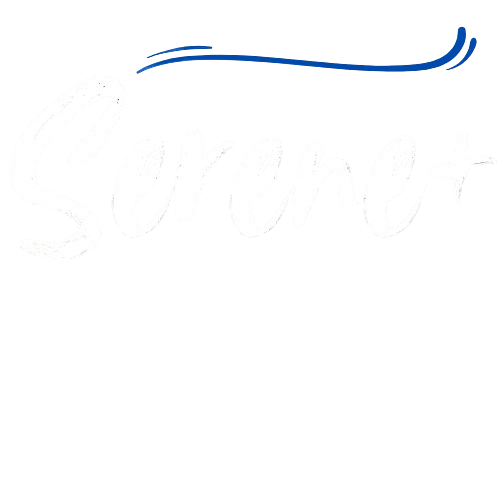
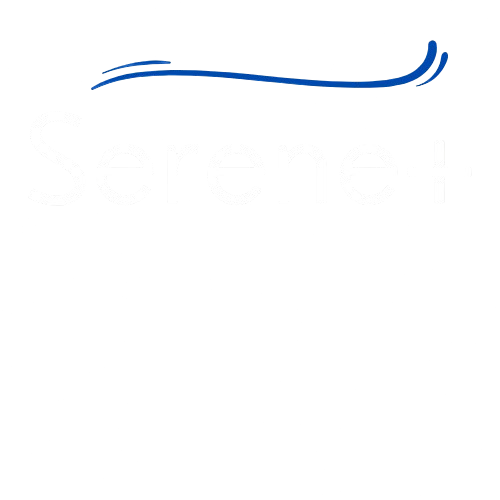
Made some changes

Changed region(s): [[0.18, 0.06, 0.96, 0.18]]

diff --git a/src/Pages/Landing.jsx b/src/Pages/Landing.jsx
@@ -10,6 +10,11 @@ import { Troubleshoot } from "@mui/icons-material";
 const Landing = () => {
 
   const navigate = useNavigate();
+  const [loading, setLoading] = useState(true);
+
+  setTimeout(() => {
+    setLoading(false);
+  }, 2000);
 
   const onClickSpotify = async () => {
     const generateRandomString = (length) => {
@@ -60,7 +65,6 @@ const Landing = () => {
     window.location.href = authUrl.toString();
   }
 
-
   // Check if the refresh token exists in localStorage
   useEffect(() => {
     const refreshToken = localStorage.getItem("refresh_token");
@@ -70,6 +74,14 @@ const Landing = () => {
 
     }
   }, [navigate]);
+
+  if (loading) {
+    return (
+      <div className="flex justify-center items-center h-[100vh] w-full text-8xl">
+        <p className="text-transparent logo">Serene+</p>
+      </div>
+    )
+  }
 
   return (
     <div className="max-w-[1920px] mx-auto h-[100vh] relative">
@@ -84,7 +96,7 @@ const Landing = () => {
         />
         <div className="flex absolute z-50 w-full py-10 flex-col h-full justify-between text-white gap-16 items-start sm:px-4 px-2">
           <div className="flex gap-4 items-center xl:text-4xl md:text-2xl justify-between w-full">
-            <Link to="/"><img src={Serene} alt="Logo" className="xl:w-[150px] xl:h-[150px] md:w-[120px] md:h-[120px] sm:w-[100px] sm:h-[100px] w-[80px] h-[80px]" /></Link>
+            <Link to="/"><img src={Serene} alt="Logo" className="xl:w-[170px] xl:h-[170px] md:w-[140px] md:h-[140px] sm:w-[120px] sm:h-[120px] w-[100px] h-[100px] -mt-6" /></Link>
           </div>
           <div className="flex flex-col xl:gap-8 md:gap-6 gap-4 xl:items-start items-center md:text-start text-center w-full xl:mb-12 lg:mb-32 md:mb-40 mb-56">
             <p className="xl:text-[6rem] md:text-6xl sm:text-4xl text-3xl font-bold xl:-mb-4 -mb-2">Songs You would expect</p>

diff --git a/src/app.css b/src/app.css
@@ -13,6 +13,35 @@ body {
   opacity: 0.5;
   z-index: 10;
 }
+
+.logo {
+  -webkit-text-stroke: 4px #004aad;
+  font-weight: 800;
+  position: relative;
+}
+
+.logo::before {
+  font-weight: 800;
+  content: "Serene+";
+  position: absolute;
+  width: 100%;
+  height: 100%;
+  background: url("/src/assets/wave.png");
+  background-clip: text;
+  animation: animText 2s ease-in;
+  background-position: 350px 20px;
+}
+
+@keyframes animText {
+  0%,
+  100% {
+    background-position: 350px 20px;
+  }
+  100% {
+    background-position: 600px -100px;
+  }
+}
+
 .loader {
   width: 50px;
   aspect-ratio: 1;
